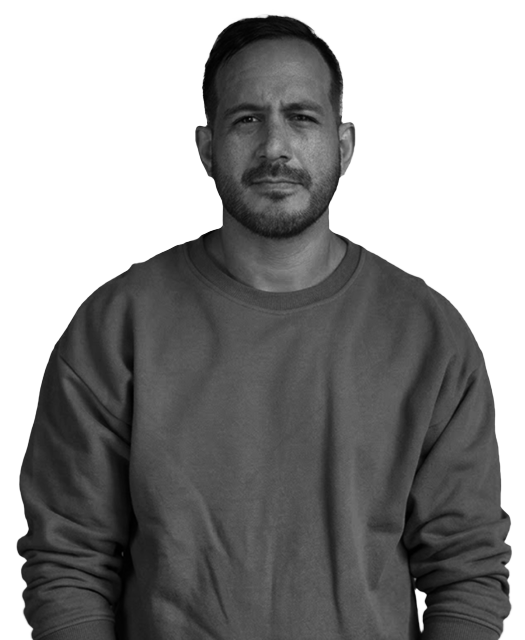
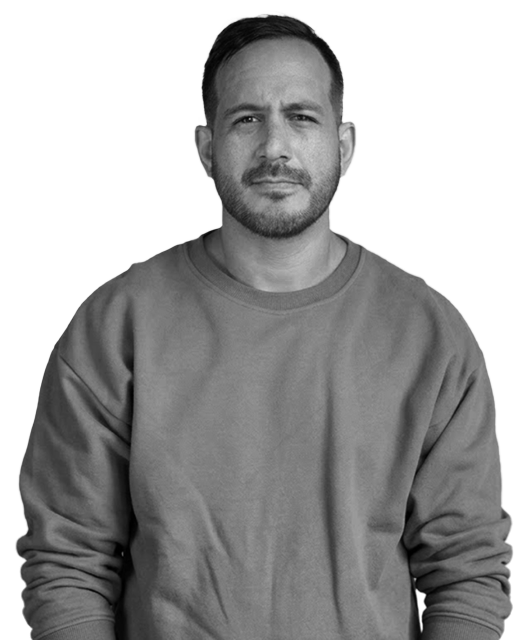
Nav con Back, reveal con etiqueta Read more y retrato dark nuevo

diff --git a/style/styles.css b/style/styles.css
@@ -1,7 +1,11 @@
 :root {
   --edge-inset: 3vh;
 }
+
 body {
+  min-height: 100vh;
+  display: flex;
+  flex-direction: column;
   margin: 0;
   background-color: var(--bg-canvas);
   color: var(--text-primary);
@@ -55,12 +59,20 @@ body {
   box-sizing: border-box;
   z-index: 10;
 }
-.site-nav__link--home {
+
+.site-nav__link--back {
   margin-right: auto;
+  display: inline-flex;
+  align-items: center;
+  gap: 6px;
+}
+.site-nav__arrow {
+  font-size: 1.05em;
+  line-height: 1;
 }
 .site-nav__link {
   font-family: var(--family-inter);
-  font-size: 20px;
+  font-size: 16px;
   font-weight: 300;
   letter-spacing: -0.02rem;
   color: var(--text-primary);
@@ -72,7 +84,7 @@ body {
 }
 @media (max-width: 768px) {
   .site-nav__link {
-    font-size: 16px;
+    font-size: 14px;
   }
 }
 .theme-switcher {
@@ -195,11 +207,13 @@ body {
   grid-row: 3;
   align-self: end;
 }
+
 .social-links--footer {
   width: 100%;
   display: flex;
   justify-content: center;
-  margin: 0 0 8vh;
+
+  margin: auto 0 var(--edge-inset);
 }
 .social-link {
   color: var(--text-primary);
@@ -276,16 +290,7 @@ body {
   flex-direction: column;
   gap: 40px;
 }
-/*
-  El asset lo decide el theme, pero el elemento sigue siendo un <img>: así
-  conserva alt, loading="lazy" (están bajo el fold y pesan) y los width/
-  height que reservan el hueco antes de descargar. `content` sustituye la
-  imagen pintada sin tocar nada de eso, y la ruta se queda en tokens.css
-  junto al resto de decisiones de theme.
 
-  El src del HTML apunta al asset de dark — el theme por defecto — y hace
-  de fallback si el CSS no carga.
-*/
 .about-diagram {
   display: block;
   width: 100%;
@@ -294,11 +299,6 @@ body {
 .about-diagram--sitemap { content: var(--diagram-sitemap-src); }
 .about-diagram--flow    { content: var(--diagram-flow-src); }
 
-/*
-  El mockup es casi cuadrado (1200/1008), no apaisado como los diagramas:
-  manda la imagen y el hueco toma su ratio. Por eso no reutiliza
-  .about-diagram, que asume proporción ancha.
-*/
 .about-mockup {
   display: block;
   width: 100%;
@@ -387,11 +387,7 @@ body {
   font-stretch: var(--font-heading-stretch);
   letter-spacing: var(--font-heading-tracking);
   font-size: 18px;
-  /*
-    1.4, no 1.3: con tracking abierto el texto ocupa más ancho y encadena
-    más líneas. Si el interlineado no acompaña, el ojo pierde el salto de
-    línea y la lectura se entorpece justo en los h3 largos.
-  */
+
   line-height: 1.4;
   text-align: left;
   color: var(--text-primary);
@@ -416,21 +412,43 @@ body {
   color: var(--text-secondary);
   text-align: left;
 }
-.about-toggle {
+
+.about-reveal {
+  display: inline-flex;
+  align-items: center;
+  gap: 8px;
   background: none;
   border: none;
   color: var(--text-primary);
   font-family: var(--family-inter);
-  font-size: 24px;
   line-height: 1;
   padding: 0;
   cursor: pointer;
   transition: color 0.2s ease;
 }
-.about-toggle:hover {
+.about-reveal__icon {
+  font-size: 24px;
+  line-height: 1;
+
+  display: inline-block;
+  transform-origin: 50% 50%;
+}
+
+.about-reveal__label {
+  font-size: 12px;
+  font-weight: 300;
+  letter-spacing: 0.02rem;
+  line-height: 1;
+}
+.about-reveal:hover {
   color: var(--accent-interactive);
 }
-.about-toggle[hidden] {
+.about-reveal:focus-visible {
+  outline: 2px solid var(--accent-interactive);
+  outline-offset: 4px;
+  border-radius: 4px;
+}
+.about-reveal[hidden] {
   display: none;
 }
 @media (min-width: 901px) {
@@ -478,7 +496,7 @@ body {
     max-width: 100%;
     align-items: flex-start;
   }
-  .about-content .about-toggle {
+  .about-content .about-reveal {
     align-self: center;
   }
   .about-text p {

diff --git a/who_i_am.html b/who_i_am.html
@@ -30,7 +30,7 @@
 <body>
 
   <nav class="site-nav">
-    <a href="index.html" class="site-nav__link site-nav__link--home">Home</a>
+    <a href="index.html" class="site-nav__link site-nav__link--back"><span class="site-nav__arrow" aria-hidden="true">&#8592;</span>Back</a>
     <a href="who_i_am.html" class="site-nav__link site-nav__link--left">Who i am</a>
     <a href="recent_projects.html" class="site-nav__link site-nav__link--right">Recent projects</a>
     <div data-theme-switcher hidden></div>
@@ -51,7 +51,10 @@
         <p>My background spans various industries with complex projects — primarily in banking — alongside experience in logistics, and retail products, designing solutions that balance user experience and needs with business goals.</p>
       </div>
 
-      <button type="button" class="about-toggle" data-reveal aria-expanded="false" aria-label="Show more">+</button>
+      <button type="button" class="about-reveal" data-reveal aria-expanded="false">
+        <span class="about-reveal__icon" aria-hidden="true">+</span>
+        <span class="about-reveal__label">Read more</span>
+      </button>
     </div>
   </section>
 
@@ -70,7 +73,10 @@
         <p>My work focuses on connecting product decisions through solid flows—turning friction into efficient experiences and consistent products.</p>
       </div>
 
-      <button type="button" class="about-toggle" data-reveal aria-expanded="false" aria-label="Show more">+</button>
+      <button type="button" class="about-reveal" data-reveal aria-expanded="false">
+        <span class="about-reveal__icon" aria-hidden="true">+</span>
+        <span class="about-reveal__label">Read more</span>
+      </button>
     </div>
   </section>
 
@@ -97,7 +103,10 @@
   
       </div>
 
-      <button type="button" class="about-toggle" data-reveal aria-expanded="false" aria-label="Show more">+</button>
+      <button type="button" class="about-reveal" data-reveal aria-expanded="false">
+        <span class="about-reveal__icon" aria-hidden="true">+</span>
+        <span class="about-reveal__label">Read more</span>
+      </button>
     </div>
   </section>
 
@@ -118,7 +127,10 @@
         <p>If two elements look similar, they should behave the same way. When they don't, it creates doubt. And when users hesitate, the experience breaks down.</p>
       </div>
 
-      <button type="button" class="about-toggle" data-reveal aria-expanded="false" aria-label="Show more">+</button>
+      <button type="button" class="about-reveal" data-reveal aria-expanded="false">
+        <span class="about-reveal__icon" aria-hidden="true">+</span>
+        <span class="about-reveal__label">Read more</span>
+      </button>
     </div>
   </section>
 
@@ -146,7 +158,6 @@
 
   <script src="https://cdn.jsdelivr.net/npm/gsap@3/dist/gsap.min.js"></script>
   <script src="https://cdn.jsdelivr.net/npm/gsap@3/dist/SplitText.min.js"></script>
-  <script src="https://cdn.jsdelivr.net/npm/gsap@3/dist/ScrollTrigger.min.js"></script>
   <script src="js/gsap.js" defer></script>
   <script src="js/theme.js" defer></script>
   <script src="js/modules.js" defer></script>

diff --git a/js/modules.js b/js/modules.js
@@ -26,45 +26,64 @@
     heading.focus({ preventScroll: true });
   }
 
-  function settle(trigger, target) {
+  function dismiss(trigger) {
     trigger.hidden = true;
     trigger.setAttribute("aria-expanded", "true");
+  }
+
+  function settle(target) {
     announce(target);
     focusHeading(target);
+  }
+
+  function scrollTo(target, smooth) {
+    const top = target.getBoundingClientRect().top + window.scrollY;
+    window.scrollTo({ top, behavior: smooth ? "smooth" : "auto" });
   }
 
   function reveal(trigger) {
     const target = nextModule(trigger);
     if (!target) return;
 
-    target.hidden = false;
-
     if (reduced.matches || typeof gsap === "undefined") {
-      settle(trigger, target);
-      target.scrollIntoView({ block: "start" });
+      target.hidden = false;
+      dismiss(trigger);
+      scrollTo(target, false);
+      settle(target);
       return;
     }
 
-    gsap.set(target, { overflow: "hidden" });
-    gsap.from(target, {
-      height: 0,
-      minHeight: 0,
-      paddingTop: 0,
-      paddingBottom: 0,
-      opacity: 0,
-      duration: 0.7,
-      ease: "power2.out",
-      clearProps: "overflow,height,minHeight,paddingTop,paddingBottom,opacity",
+    const parts = Array.from(target.children);
+    const icon = trigger.querySelector(".about-reveal__icon");
+
+    gsap.timeline({
       onComplete: () => {
-        settle(trigger, target);
-        target.scrollIntoView({ behavior: "smooth", block: "start" });
+        gsap.set(parts, { clearProps: "opacity,transform" });
+        settle(target);
       }
-    });
+    })
+      .to(trigger, { opacity: 0, scale: 0.85, duration: 0.2, ease: "power2.in" }, 0)
+      .to(icon, { rotate: 45, duration: 0.2, ease: "power2.in" }, 0)
+      .add(() => {
+        dismiss(trigger);
+        target.hidden = false;
+        gsap.set(parts, { opacity: 0, y: 24 });
+        scrollTo(target, true);
+      }, 0.2)
+      .to(parts, {
+        opacity: 1,
+        y: 0,
+        duration: 0.5,
+        stagger: 0.08,
+        ease: "power2.out"
+      }, 0.28);
   }
 
   function prune() {
     document.querySelectorAll(TRIGGER).forEach((trigger) => {
-      trigger.hidden = !nextModule(trigger);
+      const target = nextModule(trigger);
+      trigger.hidden = !target;
+      if (target && target.id) trigger.setAttribute("aria-controls", target.id);
     });
   }
 

diff --git a/recent_projects.html b/recent_projects.html
@@ -30,7 +30,7 @@
 <body>
 
   <nav class="site-nav">
-    <a href="index.html" class="site-nav__link site-nav__link--home">Home</a>
+    <a href="index.html" class="site-nav__link site-nav__link--back"><span class="site-nav__arrow" aria-hidden="true">&#8592;</span>Back</a>
     <a href="who_i_am.html" class="site-nav__link site-nav__link--left">Who i am</a>
     <a href="recent_projects.html" class="site-nav__link site-nav__link--right">Recent projects</a>
     <div data-theme-switcher hidden></div>
@@ -64,7 +64,6 @@
 
   <script src="https://cdn.jsdelivr.net/npm/gsap@3/dist/gsap.min.js"></script>
   <script src="https://cdn.jsdelivr.net/npm/gsap@3/dist/SplitText.min.js"></script>
-  <script src="https://cdn.jsdelivr.net/npm/gsap@3/dist/ScrollTrigger.min.js"></script>
   <script src="js/gsap.js" defer></script>
   <script src="js/theme.js" defer></script>
 

diff --git a/index.html b/index.html
@@ -30,7 +30,6 @@
 <body>
 
   <nav class="site-nav">
-    <a href="index.html" class="site-nav__link site-nav__link--home">Home</a>
     <a href="who_i_am.html" class="site-nav__link site-nav__link--left">Who i am</a>
     <a href="recent_projects.html" class="site-nav__link site-nav__link--right">Recent projects</a>
     <div data-theme-switcher hidden></div>
@@ -70,7 +69,6 @@
 
   <script src="https://cdn.jsdelivr.net/npm/gsap@3/dist/gsap.min.js"></script>
   <script src="https://cdn.jsdelivr.net/npm/gsap@3/dist/SplitText.min.js"></script>
-  <script src="https://cdn.jsdelivr.net/npm/gsap@3/dist/ScrollTrigger.min.js"></script>
   <script src="js/gsap.js" defer></script>
   <script src="js/theme.js" defer></script>
 

diff --git a/js/gsap.js b/js/gsap.js
@@ -1,4 +1,4 @@
-gsap.registerPlugin(SplitText, ScrollTrigger);
+gsap.registerPlugin(SplitText);
 const ACCENT_TOKENS = ["--accent-1", "--accent-2", "--accent-3", "--accent-4", "--accent-5"];
 let accentPalette = [];
 let baseColor = "";
